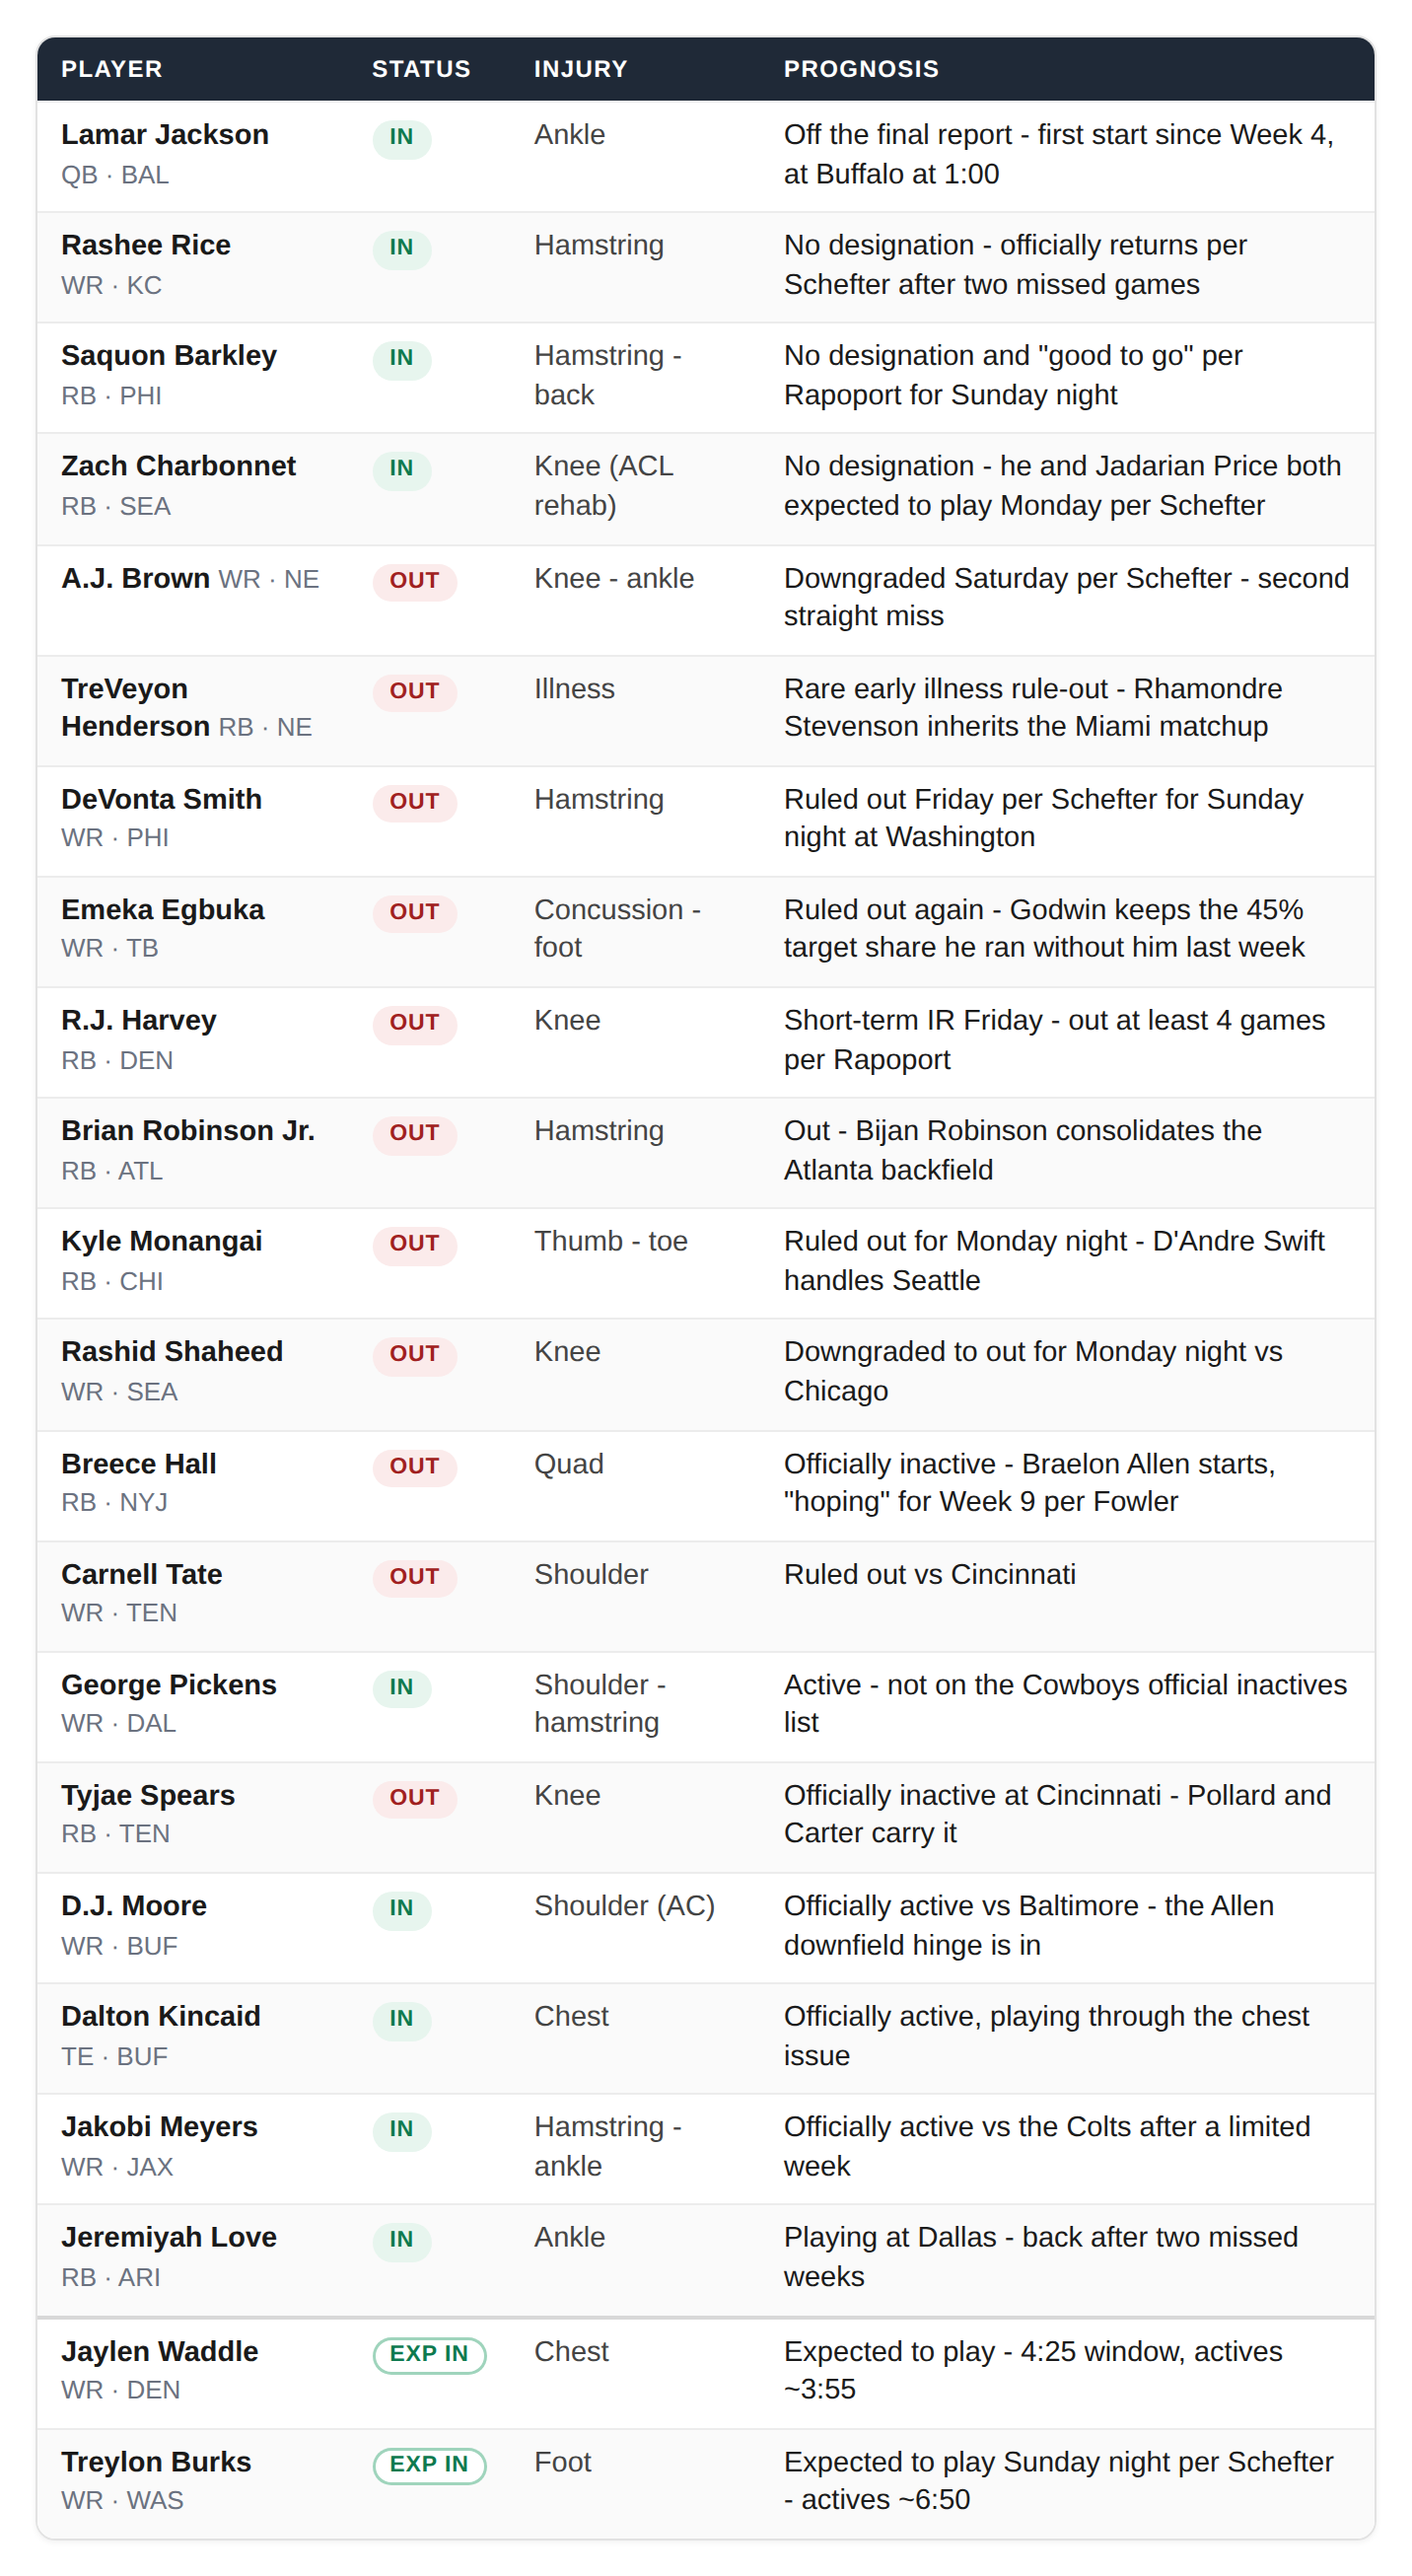
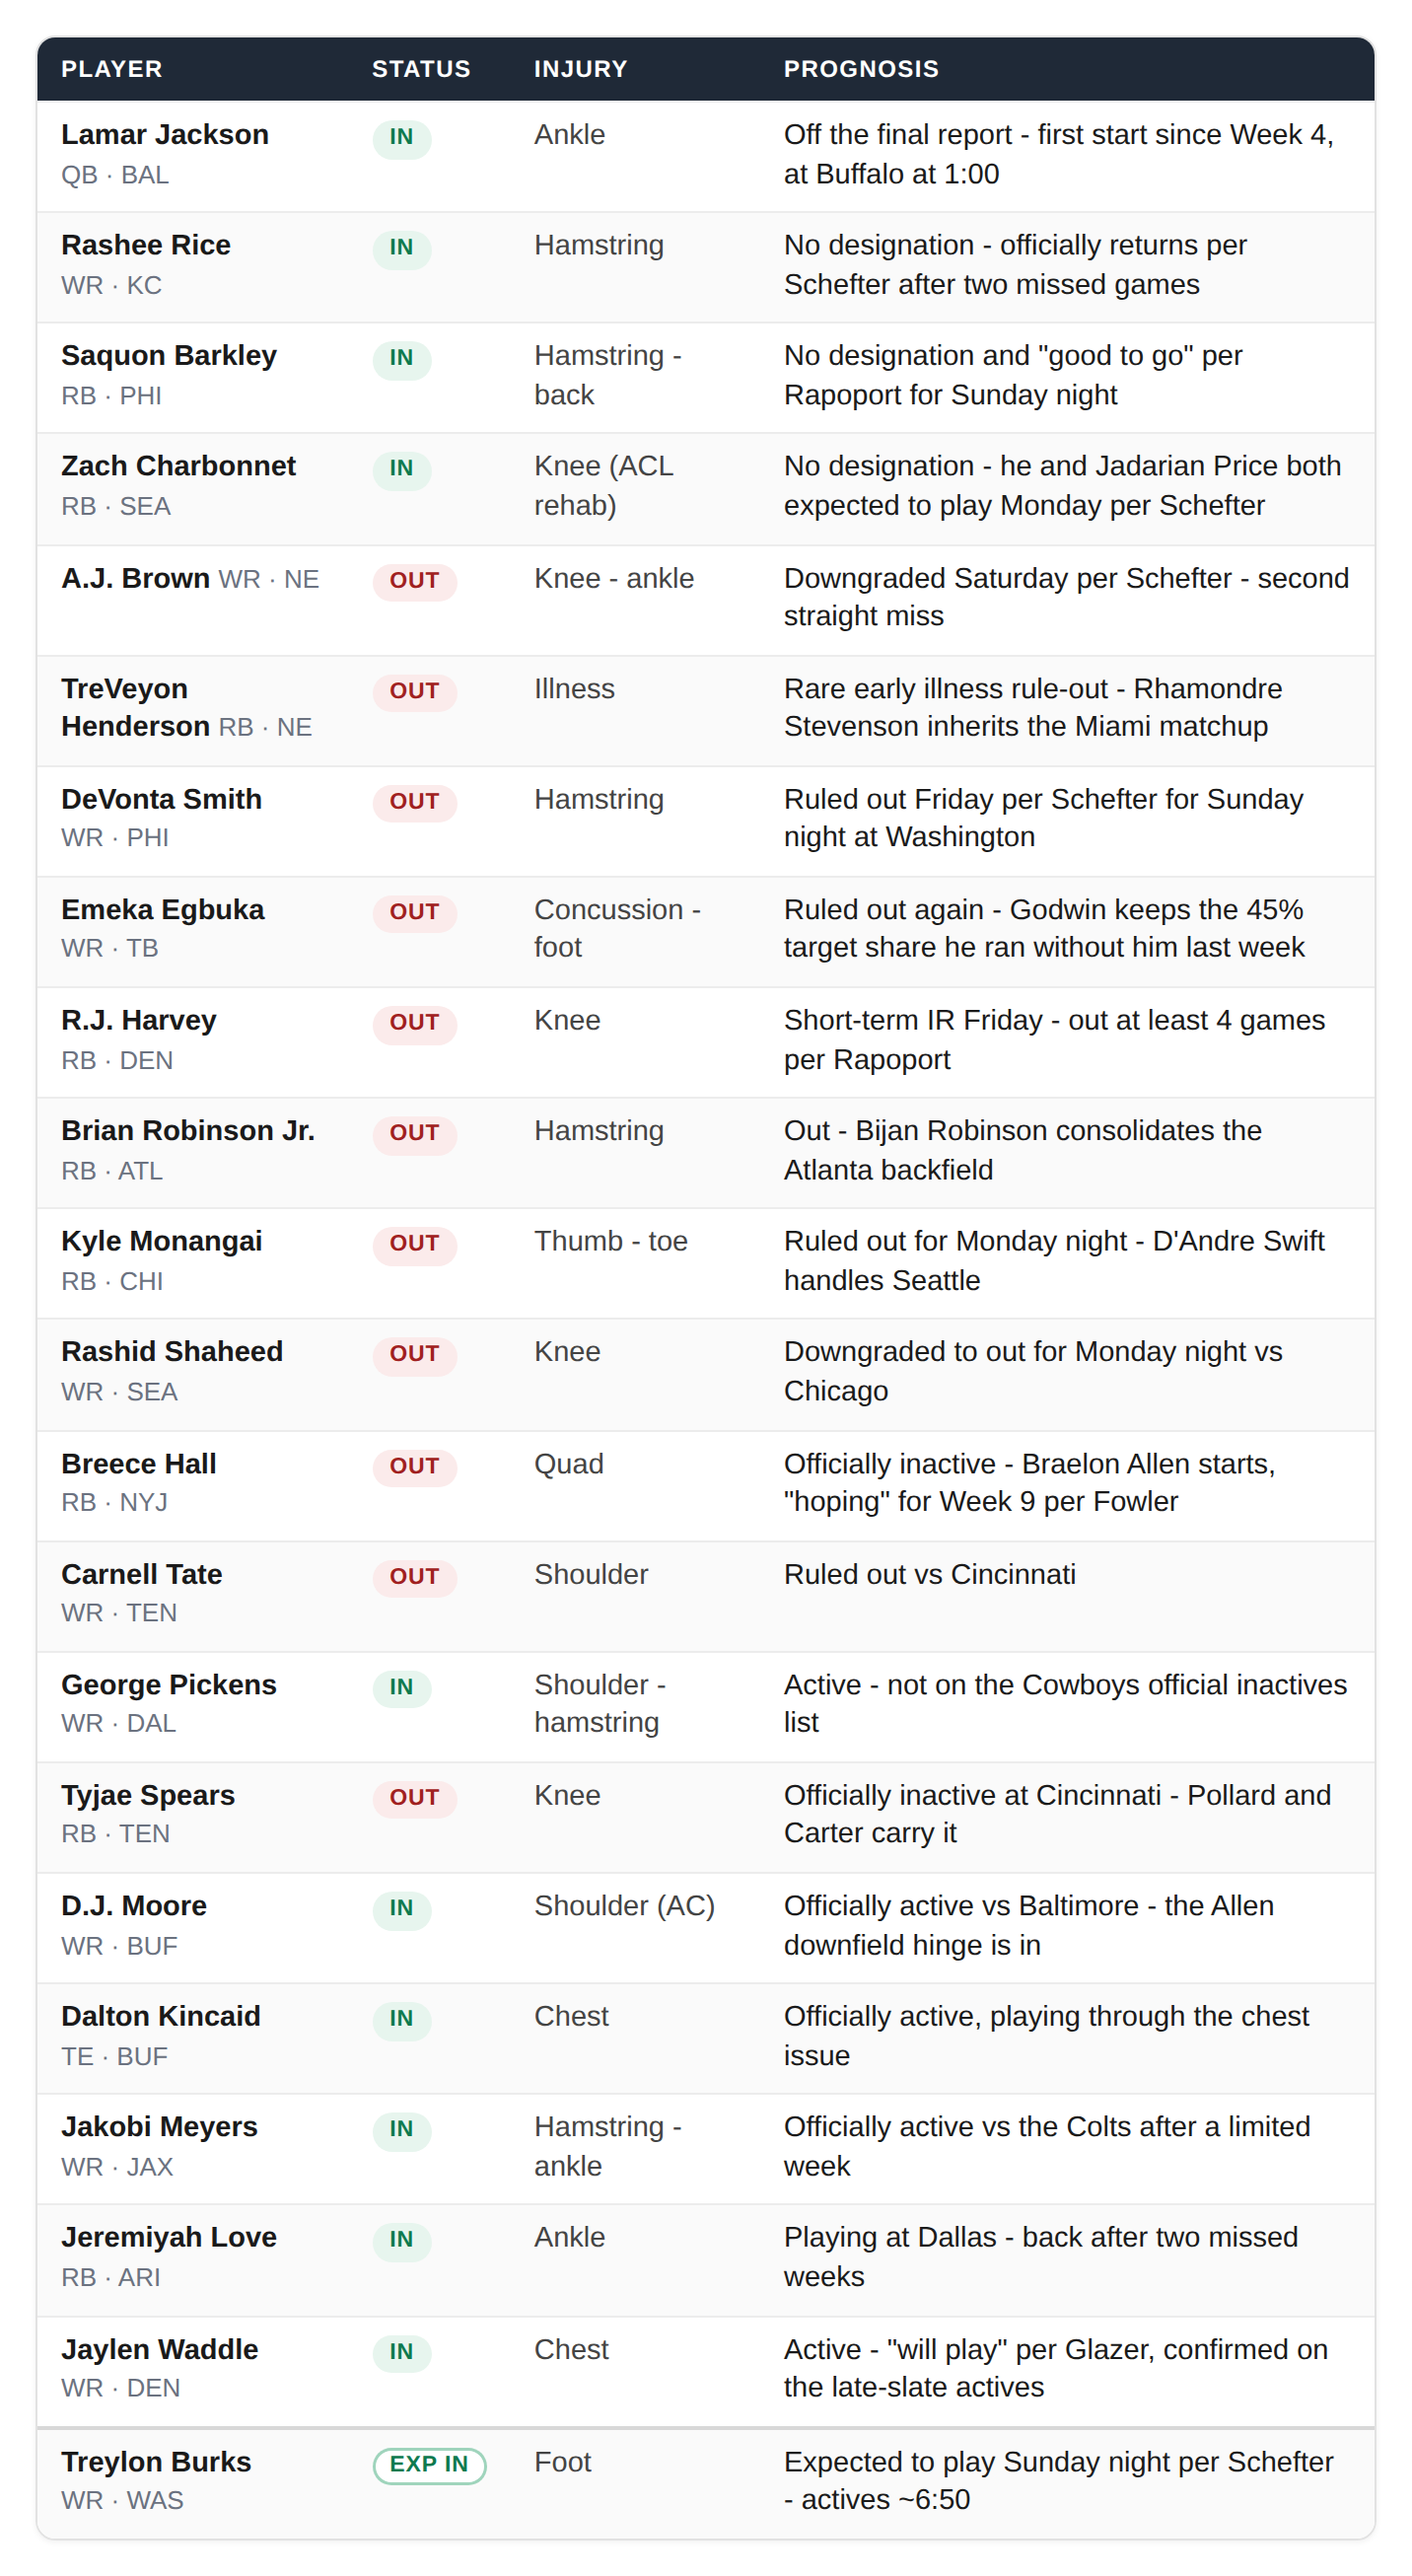
Wire: Waddle active (Glazer) — only Burks still hollow [skip ci]
Claude-Session: https://claude.ai/code/session_01LD24FbXSMtPMcXZkoCgqbd

diff --git a/data/sunday/injury-wire.md b/data/sunday/injury-wire.md
@@ -35,5 +35,5 @@
 | Dalton Kincaid | TE · BUF | IN | Chest | Officially active, playing through the chest issue |
 | Jakobi Meyers | WR · JAX | IN | Hamstring - ankle | Officially active vs the Colts after a limited week |
 | Jeremiyah Love | RB · ARI | IN | Ankle | Playing at Dallas - back after two missed weeks |
-| Jaylen Waddle | WR · DEN | EXP IN | Chest | Expected to play - 4:25 window, actives ~3:55 |
+| Jaylen Waddle | WR · DEN | IN | Chest | Active - "will play" per Glazer, confirmed on the late-slate actives |
 | Treylon Burks | WR · WAS | EXP IN | Foot | Expected to play Sunday night per Schefter - actives ~6:50 |
